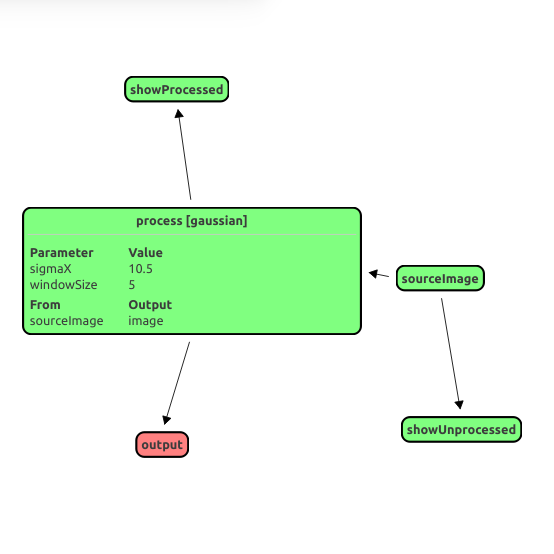
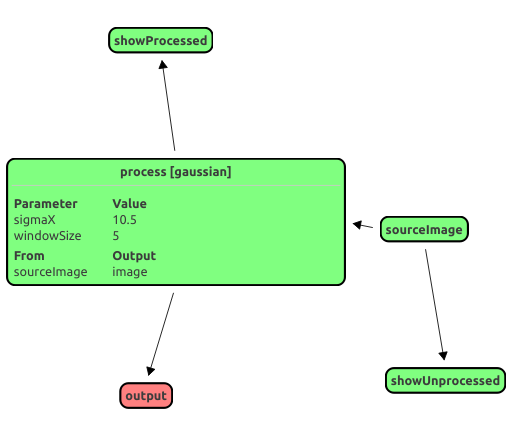
finalized part 2 - improved slide with graph features
Conflicts:
	doc/presentations/Final_Presentation/finalPresentation.tex

Changed region(s): [[0.0, 0.3688, 0.9865, 0.9835], [0.185, 0.0615, 0.4316, 0.3381]]

diff --git a/doc/presentations/Final_Presentation/finalPresentation.tex b/doc/presentations/Final_Presentation/finalPresentation.tex
@@ -761,6 +761,24 @@ Akarsh Seggemu
 
 \end{frame}
 
+\begin{frame}{Interface features: Graph}
+	\begin{center}
+	\includegraphics[scale=0.4]{images/graph}
+	\end{center}
+	\pnote{
+		 automatic layout of processing graph
+
+		 simple- and detailview
+
+		 synchronized with current step
+
+		 color coded errors and executionsteps
+
+		 zoom, autoscale and user dragable
+	}
+
+\end{frame}
+
 \subsection{Console}
 \begin{frame}{The Console Interface}
 \Large
